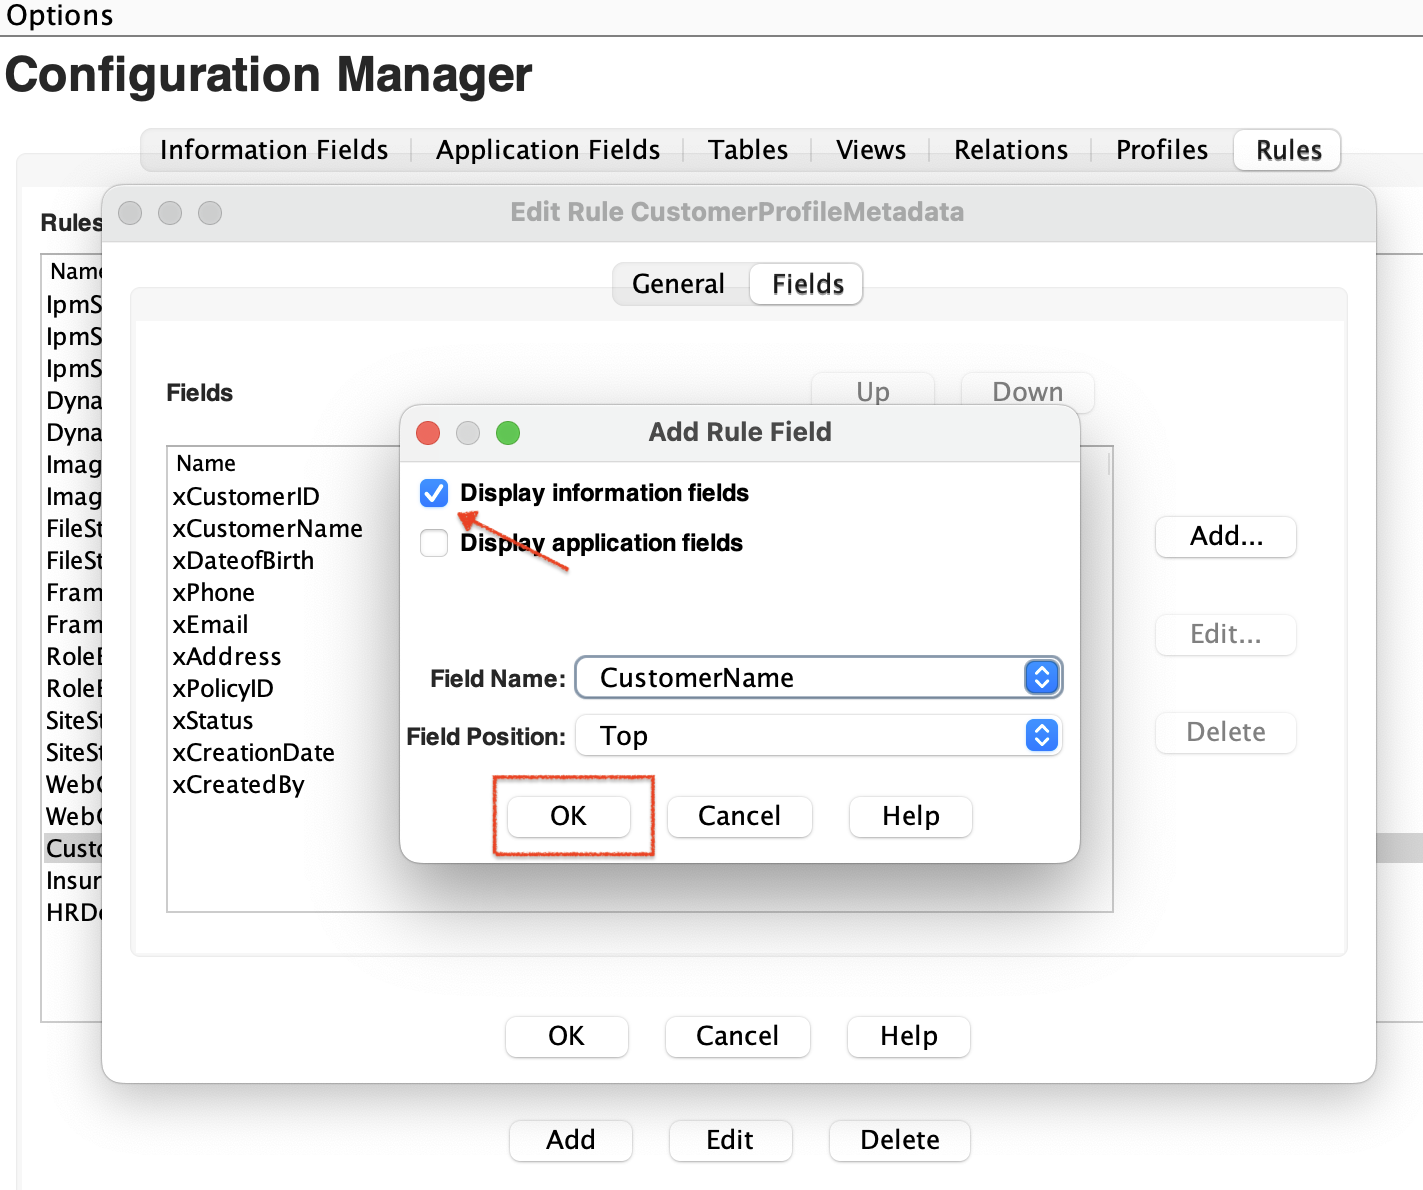
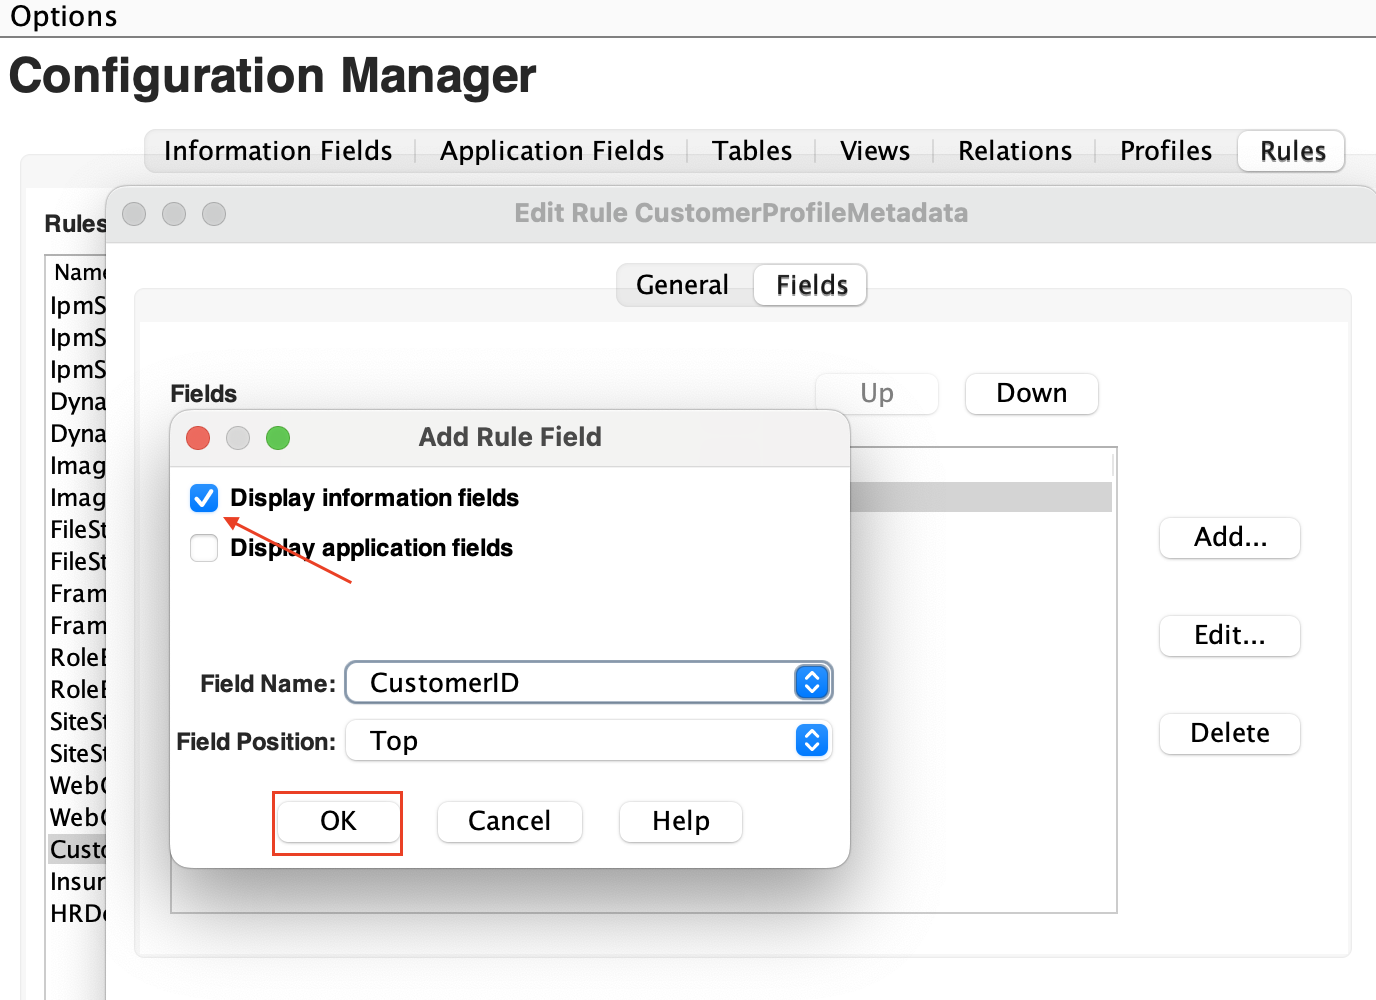
WMS 11801 - latest QA observation issue fixes
WMS 11801 - latest QA observation issue fixes

diff --git a/webcenter-content/wcc-document-security/08-configuring-custom-metadata-profile-and-rules/08-configuring-custom-metadata-profile-and-rules.md b/webcenter-content/wcc-document-security/08-configuring-custom-metadata-profile-and-rules/08-configuring-custom-metadata-profile-and-rules.md
@@ -113,16 +113,16 @@ This lab assumes you have completed:
    - **To create LOV Values:**
      1. Click **Enable Option List** checkbox.
      2. After enabling the Option List checkbox, click **Configure** button.
-   ![WCC Add custom metadata field menu](./images/task2-create-custom-metada-step5.png"This image shows the WCC Add custom metadata field menu")
+   ![WCC Add custom metadata field menu](./images/task2-create-custom-metada-step5.png" This image shows the WCC Add custom metadata field menu")
    - **Configure Option List:**
-     - Once Option list edit config menu opens please follow these steps.
+     - Once Option list edit config dialog opens please follow these steps.
           ![WCC Add custom metadata field menu](./images/task2-create-custom-metada-step6.png "This image shows the WCC Add custom metadata field menu")
 
      - Select **Select List Validated** in Option List Type LOV list
      - Click **Use option list** check box and type the name of the LOV.
      - Click **Edit** Button
          ![This image shows the WCC Add custom metadata field menu](./images/task2-create-custom-metada-step7.png "This image shows the WCC Add custom metadata field menu")
-     - Enter the required options, such as 'Life Insurance,' in option menu
+     - Enter the required options, such as 'Life Insurance,' in option drop-down
             ```
           <copy>Life Insurance</copy>
            ```
@@ -231,7 +231,7 @@ A profile consists of one or more rules and a trigger value. The rules determine
          ```
  ![TThis image shows the WCC Add Profile Rule menu](./images/task3-create-rule-step2.png "This image shows the WCC Add Profile Rule menu")
 
-- Select **Is group** check box this will make this group metadata headder to appear in the form while creating document using this Profile Rule
+- Select **Is group** check box this will make this group metadata header to appear in the form while creating document using this Profile Rule
 - Select **Has group header check box**
 - Click **Edit** button to give name of header.
 - Enter the **header name** in text box then click ok.
@@ -248,15 +248,15 @@ A profile consists of one or more rules and a trigger value. The rules determine
     - A document type: These can use components based on document metadata fields.
     - A user type: These can use components based on user metadata fields.
 
-- Click **Fields** add MetaData.
+- Click **Fields** add MetaData
   - Once the Edit Rule config screen open click **Add** button.
   ![TThis image shows the WCC Add Profile Rule menu](./images/task3-create-rule-step4.png "This image shows the WCC Add Profile Rule menu")
 - Click **Display Information fields** check box to show custom metadata select.
-- Select **Field Name** as **CustomerName** to add part of Rule.
+- Select **Field Name** as **CustomerId** to add part of Rule.
 - Select **top** as Field position (required): Adjusts the general placement order of the metadata field. Values are top, middle, and bottom.
 - Once you select the both the values click **ok**.
   ![TThis image shows the WCC Add Profile Rule menu](./images/task3-create-rule-step5.png "This image shows the WCC Add Profile Rule menu")
-- Once you click **ok** there will other menu will open here you can customize metadata details
+- Once you click **ok** there will other dialog will open here you can customize metadata details
 - Select **Edit** as Field type (required): Determines how the metadata field is displayed on the Check In and Search pages.Values can be Edit, Info Only, Hidden, Excluded, or Required. If required, a message is also required.
 - Click **Use custom label** check box the enter the field label this allow to customize the metadata label values .
          ```
@@ -336,20 +336,18 @@ Although you create rules before you create triggers and profiles, it is necessa
 - Click on **Configuration Manager** Link
   ![TThis image shows the WCC Add Profile Rule menu](./images/task2-create-custom-metada-step1.png "This image shows the WCC Add Profile Rule menu")
 - Select **IdcProfile** Metadata and click **Edit Values**
-  ![TThis image shows the WCC Add Profile Rule menu](./images/task5-create-workflow-step6.png "This image shows the WCC Add Profile Rule menu")
+  ![TThis image shows the WCC Add Profile Rule menu](./images/task5-create-workflow-add-step6.png "This image shows the WCC Add Profile Rule menu")
 - Click **Add** to add the values
-- Select **IdcProfile** Metadata and click **Edit Values**
   ![TThis image shows the WCC Add Profile Rule menu](./images/task5-create-workflow-step10.png "This image shows the WCC Add Profile Rule menu")
-- Enter DProfileTriggerValue as
+- Enter **DProfileTriggerValue** as
          ```
          <copy>Customer </copy>
          ```
-- Enter DProfileTriggerOrder values as
+- Enter **DProfileTriggerOrder** values as
          ```
          <copy>1 </copy>
          ```
 - click **ok**
-- Select **IdcProfile** Metadata and click **Edit Values**
   ![TThis image shows the WCC Add Profile Rule menu](./images/task5-create-workflow-step8.png "This image shows the WCC Add Profile Rule menu")
 - Similarly Add values for **Insurance Type** and  **HR Department**
 - Click **Close** once you are done.
@@ -361,16 +359,13 @@ To create a new profile:
   ![TThis image shows the WCC Add Profile Rule menu](./images/task2-create-custom-metada-step1.png "This image shows the WCC Add Profile Rule menu")
 - Click  **Configuration Manger** > **Profile** button in Configuration Manager.
   ![TThis image shows the WCC Add Profile Rule menu](./images/task4-create-profile-step1.png "This image shows the WCC Add Profile Rule menu")
-- Click **Trigger** drop downs field and select **Customer** value in option list, click **ok**.
-  ![TThis image shows the WCC Add Profile Rule menu](./images/task4-create-profile-step2.png "This image shows the WCC Add Profile Rule menu")
-  ![TThis image shows the WCC Add Profile Rule menu](./images/task4-create-profile-step3.png "This image shows the WCC Add Profile Rule menu")
 - Click **Add** button.
-- Enter the **name** of the new profile and click **oK**.
 
 - Enter the **name** of the new profile and click **OK**.
          ```
          <copy>CustomerProfileMetadata </copy>
          ```
+    ![TThis image shows the WCC Add Profile Rule menu](./images/task4-create-profile-step11.png "This image shows the WCC Add Profile Rule menu")
   - On the **Add/Edit** Profile page, enter the following information:
     - **Display label:** Specify how the profile is listed in menus.
             ```
@@ -380,21 +375,32 @@ To create a new profile:
                 ```
                 <copy>Profile for Customer Profile Metadata  </copy>
              ```
-    - **Trigger list:** the list values associated with the trigger.
+     ![TThis image shows the WCC Add Profile Rule menu](./images/task4-create-profile-step2.png "This image shows the WCC Add Profile Rule menu")
+    - Click **Trigger** drop downs field and select **Customer** value in option list, click **ok**.
+    ![TThis image shows the WCC Add Profile Rule menu](./images/task4-create-profile-step3.png "This image shows the WCC Add Profile Rule menu")
     - **Exclude non-rule fields:** Select check box to exclude all metadata fields that do not belong to the rules included in the profile.
     - **Restrict personalization:** This Option used in  check in or search links to a particular user or group of users. Idoc Script code based on user information is entered into the Profile Links page and must evaluate to true before a link is displayed. If deselected (default), all links are displayed for all users by default unless evaluated by another profile.
+    - Click **Add** to include rules in the new profile.
     ![TThis image shows the WCC Add Profile Rule menu](./images/task4-create-profile-step4.png "This image shows the WCC Add Profile Rule menu")
-- Click **Add** to include rules in the new profile.
-
+    - On the Add Rule in Profile page, select **CustomerProfileMetadata** rules from the list.
+    - select **Top** value lov value from Rule Priority field.
+    - Click **OK**.
   - **Note:-**
     - You cannot add rules to the profile until you create and define them using the Configuration Manager: Rules tab.
-    - On the Add Rule in Profile page, select rules from the list and assign them a general placement priority value.
-    - Adjust the placement order of the rules in the list by pressing the Up or Down button. The position of each rule in the list is relevant to its priority in the evaluation process. The general position (top, middle, or bottom) in the list is established when the rule is initially added to the profile. The buttons further refine the placement by moving the rule to a more precise position.
-    - Click **OK**.
-    - The new profile is included in the Profiles list on the Profiles tab.
+    - To adjust the placement order of the rules in the list by pressing the Up or Down button.
+    - The position of each rule in the list is relevant to its priority in the evaluation process. The general position (top, middle, or bottom) in the list is established when the rule is initially added to the profile.
+    - The buttons further refine the placement by moving the rule to a more precise position.
+
+  - Finally click **ok** to create new profile.
+  - The new profile is included in the Profiles list on the Profiles tab.
+
   - Similarly create **Insurance Type Metadata** profile and **HR Department Metadata** profile
-    - for Insurance Type Metadata profile select trigger value as **Insurance type**
-    - for HR Department Metadata profile select trigger value as **HR Department**
+    - for Insurance Type Metadata profile
+      - select trigger value as **Insurance type**
+      - Select rule as **InsuranceTypeMetadata**
+    - for HR Department Metadata profile
+      - select trigger value as **HR Department**
+      - Select rule as **HRDepartmentMetadata**
 
 - This Completes Create Profile task .
 
